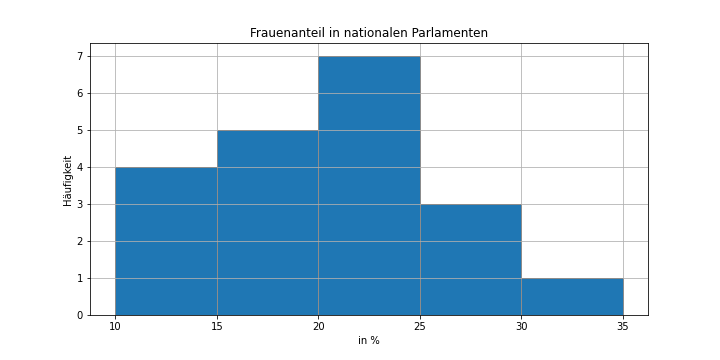
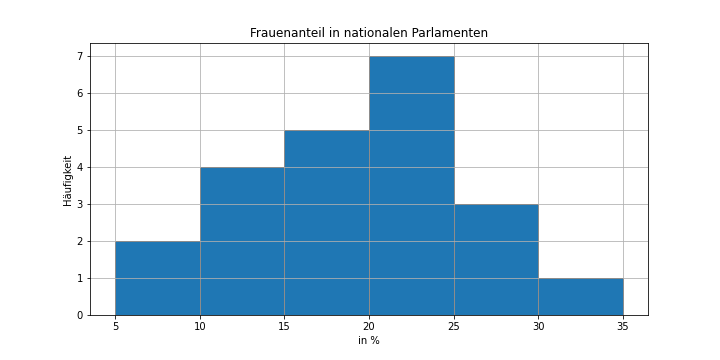
Adjusted bins for second histogram. 🧬

diff --git a/idaf.html b/idaf.html
@@ -14876,7 +14876,7 @@ Name: Frauenanteil in nationalen Parlamenten, dtype: float64</pre>
 <div class="jp-InputPrompt jp-InputArea-prompt">In&nbsp;[&nbsp;]:</div>
 <div class="jp-CodeMirrorEditor jp-Editor jp-InputArea-editor" data-type="inline">
      <div class="CodeMirror cm-s-jupyter">
-<div class=" highlight hl-ipython3"><pre><span></span><span class="n">bins</span> <span class="o">=</span> <span class="n">np</span><span class="o">.</span><span class="n">arange</span><span class="p">(</span><span class="n">start</span><span class="o">=</span><span class="mi">10</span><span class="p">,</span> <span class="n">stop</span><span class="o">=</span><span class="mi">40</span><span class="p">,</span> <span class="n">step</span><span class="o">=</span><span class="mi">5</span><span class="p">)</span>
+<div class=" highlight hl-ipython3"><pre><span></span><span class="n">bins</span> <span class="o">=</span> <span class="n">np</span><span class="o">.</span><span class="n">arange</span><span class="p">(</span><span class="n">start</span><span class="o">=</span><span class="mi">5</span><span class="p">,</span> <span class="n">stop</span><span class="o">=</span><span class="mi">40</span><span class="p">,</span> <span class="n">step</span><span class="o">=</span><span class="mi">5</span><span class="p">)</span>
 
 <span class="c1"># Print hist for Frauenanteil in nationalen Parlamenten 2008-2010</span>
 <span class="n">hist</span> <span class="o">=</span> <span class="n">df2008to2010</span><span class="o">.</span><span class="n">hist</span><span class="p">(</span><span class="n">column</span><span class="o">=</span><span class="s1">&#39;Frauenanteil in nationalen Parlamenten&#39;</span><span class="p">,</span>
@@ -14918,7 +14918,7 @@ Name: Frauenanteil in nationalen Parlamenten, dtype: float64</pre>
 
 
 <div class="jp-RenderedImage jp-OutputArea-output ">
[2 lines of base64/hex data omitted]
 >
 </div>
 
@@ -14933,7 +14933,7 @@ Name: Frauenanteil in nationalen Parlamenten, dtype: float64</pre>
 
 
 <div class="jp-RenderedImage jp-OutputArea-output ">
[2 lines of base64/hex data omitted]
 >
 </div>
 
